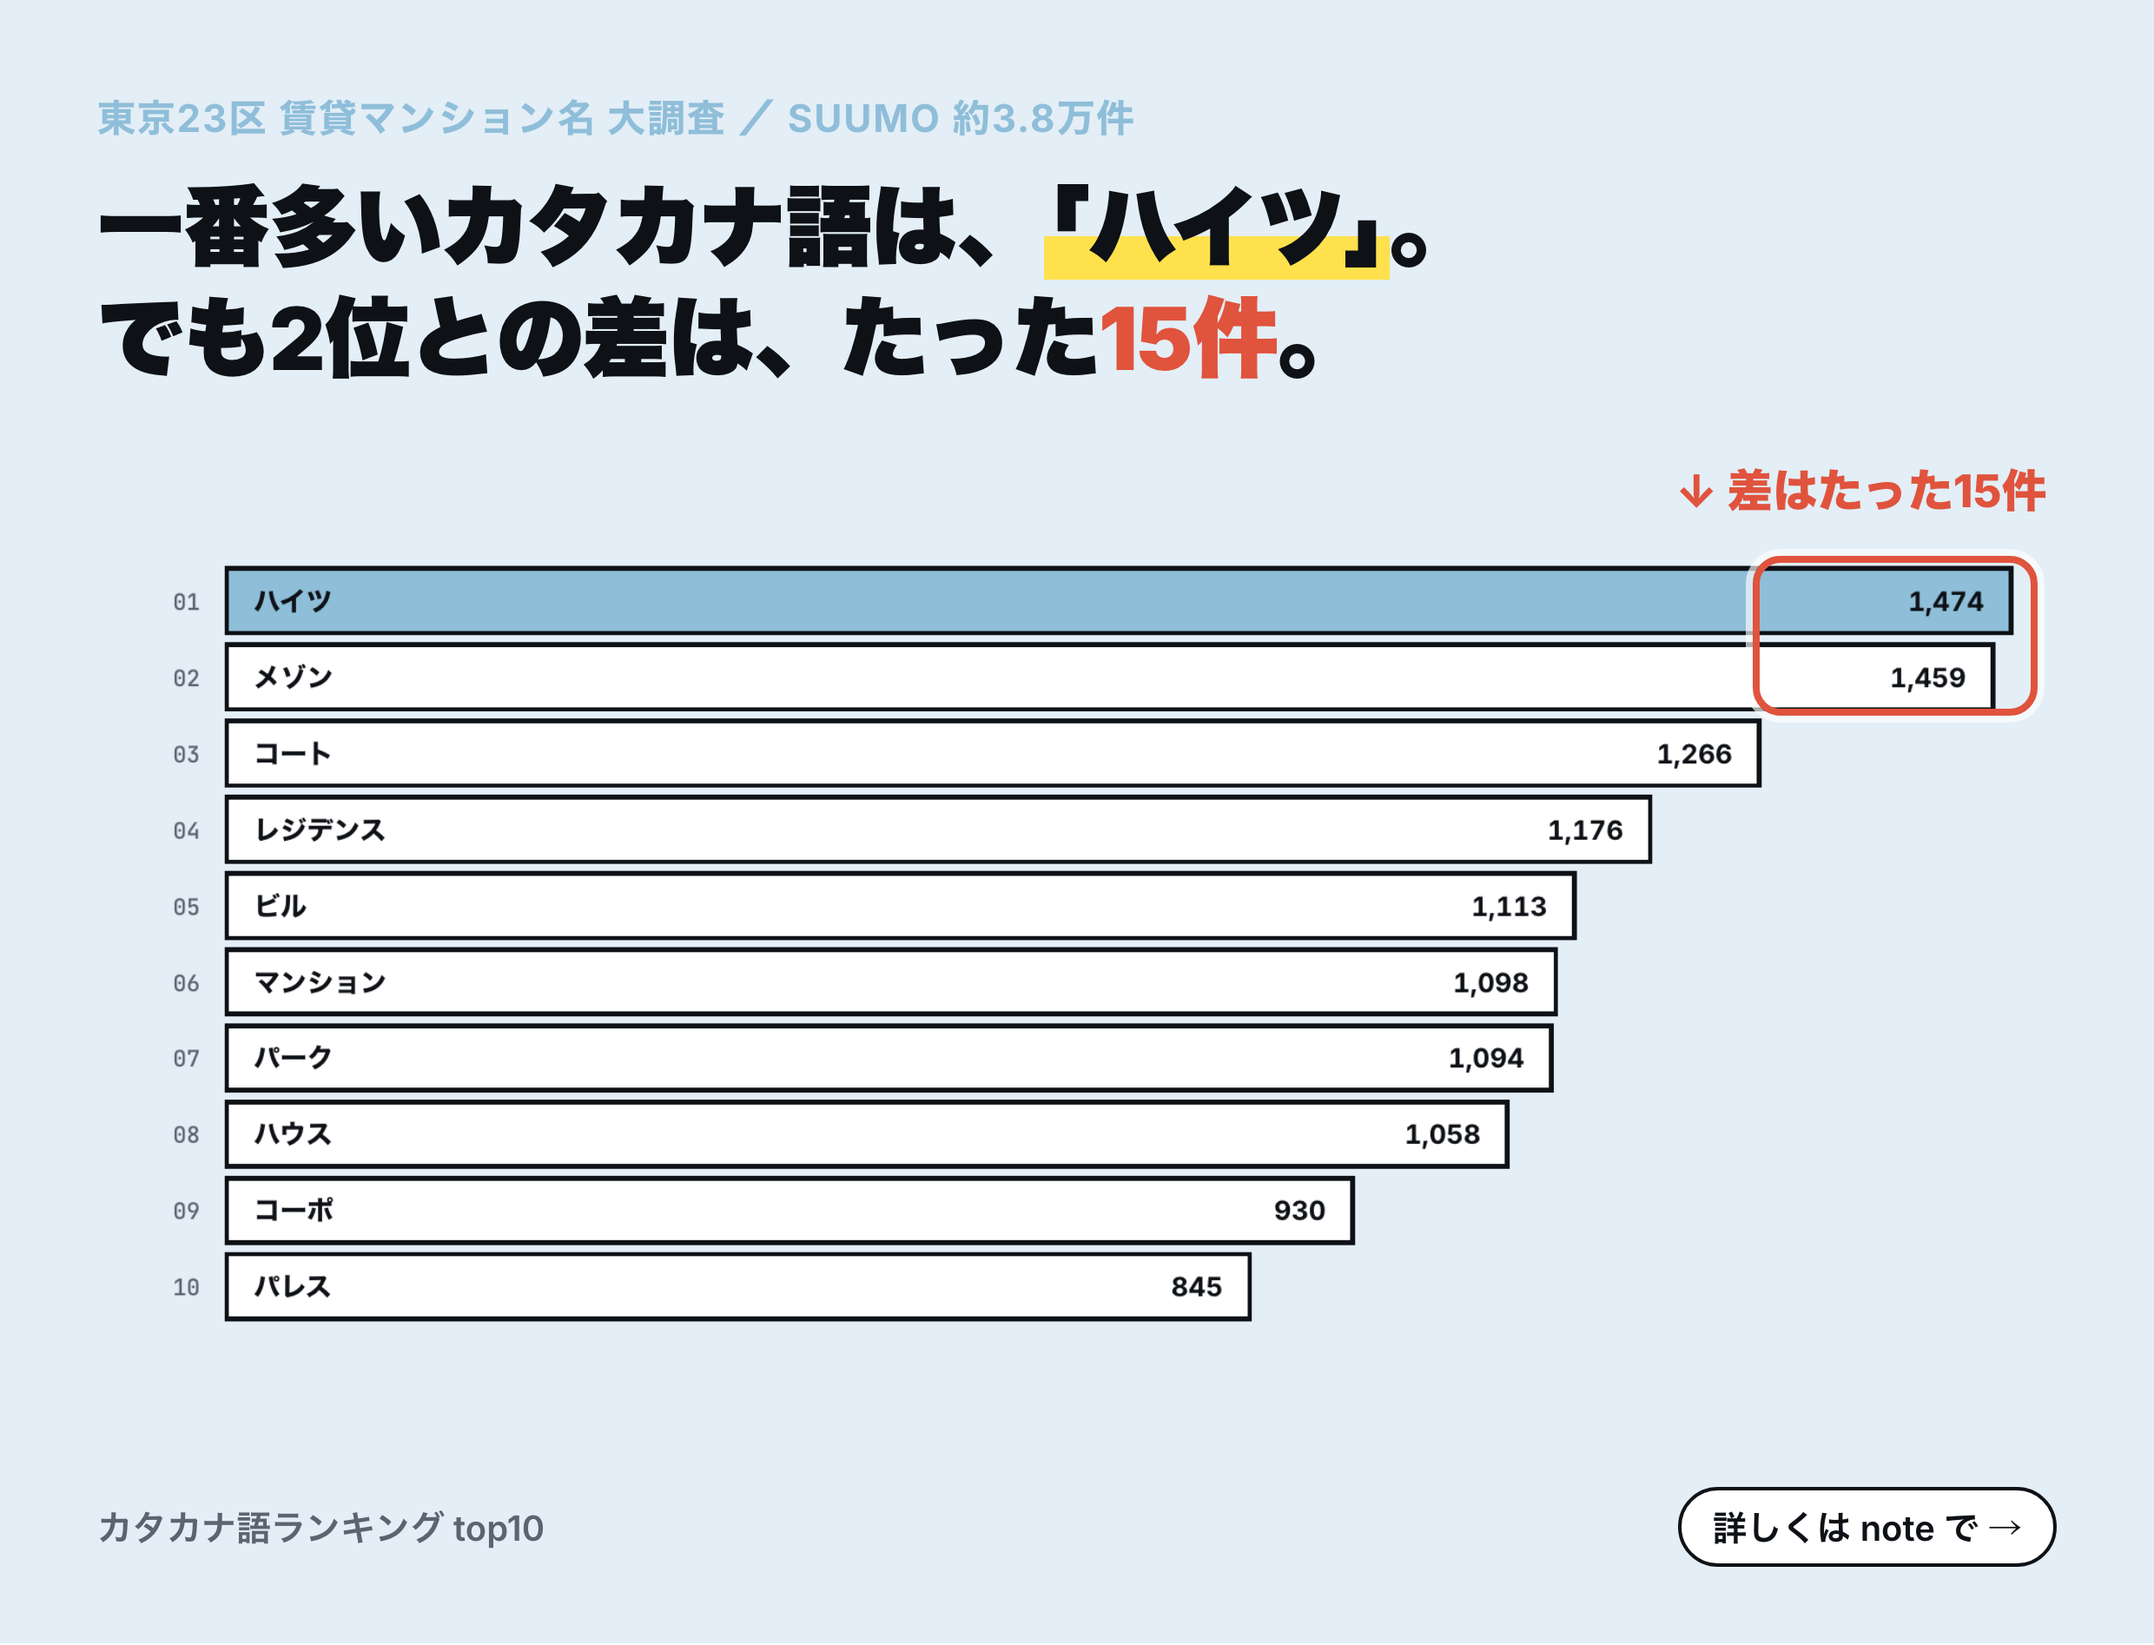
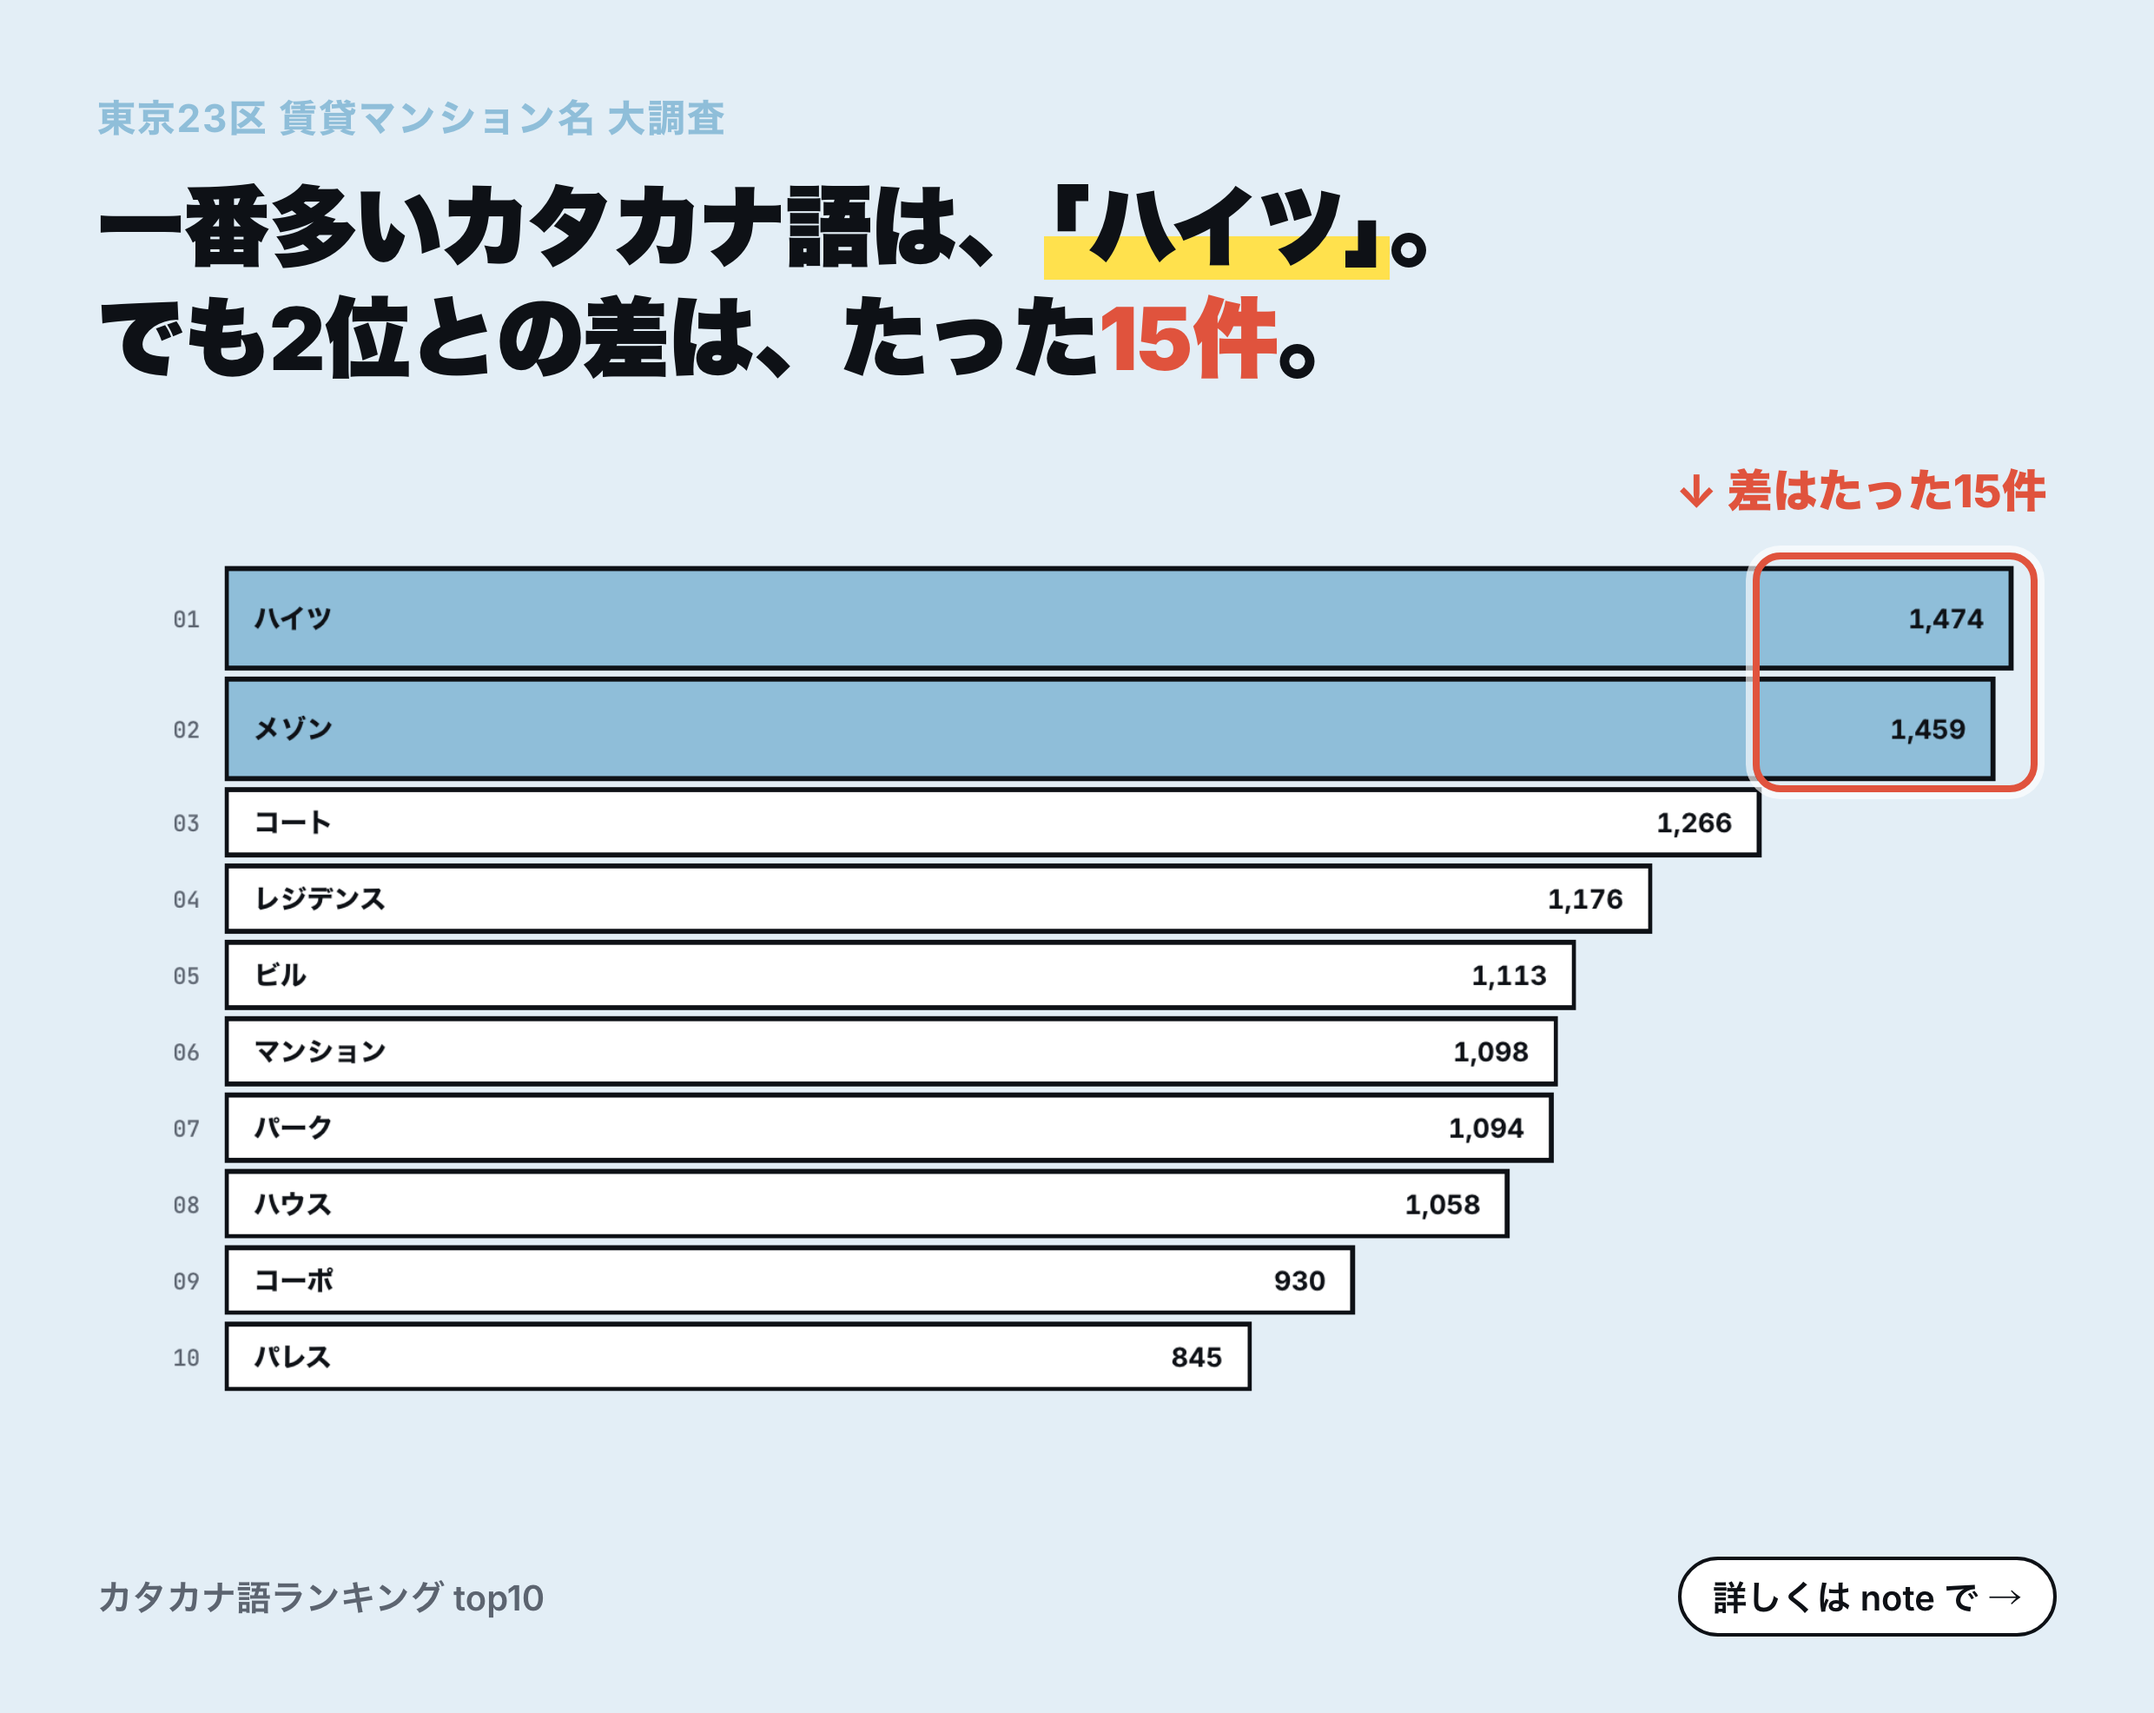
Add X-post token count visualization and update post1 ranking image
Create exp/014_visualize_token_counts_x.py variant for X posts that highlights
the near-tie between top 2 items. Update exp/012_create_x_post_images.py to use
the new visualization, remove redundant data source attribution, and fine-tune
the ring overlay positioning on post1_ranking.png.

diff --git a/exp/014_visualize_token_counts_x.py b/exp/014_visualize_token_counts_x.py
@@ -1,0 +1,232 @@
+"""X-post variant of the token-count bar chart (see 005 for the note version).
+
+Same chart as 005, but the top 2 rows get taller, accent-colored bars so the
+near-tie between rank 1 and 2 stands out in the X post. The note keeps the plain
+005 chart; this variant is embedded only by 012 (post1_ranking).
+Design reference: https://pudding.cool/2019/03/pop-music/
+"""
+
+from __future__ import annotations
+
+import json
+import subprocess
+from pathlib import Path
+
+import click
+import polars as pl
+
+from html_to_png import html_to_png
+
+SCRIPT_PATH = Path(__file__).resolve()
+PROJECT_ROOT = SCRIPT_PATH.parent.parent
+INPUT_CSV = PROJECT_ROOT / "data" / "003_analyze_property_name_words" / "token_counts.csv"
+OUTPUT_DIR = PROJECT_ROOT / "data" / SCRIPT_PATH.stem
+OUTPUT_HTML = OUTPUT_DIR / "index.html"
+OUTPUT_PNG = OUTPUT_DIR / "index.png"
+
+DEFAULT_TOP_N = 10
+
+HTML_TEMPLATE = """<!doctype html>
+<html lang="en">
+  <head>
+    <meta charset="UTF-8" />
+    <title>Top __TOP_N__ property-name tokens</title>
+    <link rel="preconnect" href="https://fonts.googleapis.com" />
+    <link rel="preconnect" href="https://fonts.gstatic.com" crossorigin />
+    <link
+      href="https://fonts.googleapis.com/css2?family=Inter:wght@400;500;600;700;800;900&family=JetBrains+Mono:wght@400;500&display=swap"
+      rel="stylesheet"
+    />
+    <style>
+      :root {
+        --bg: #e3eef6;
+        --surface: #ffffff;
+        --ink: #0e1116;
+        --muted: #5c6470;
+        --accent: #8fbed9;
+        --border: #0e1116;
+      }
+
+      * {
+        box-sizing: border-box;
+      }
+
+      html,
+      body {
+        margin: 0;
+        padding: 0;
+        background: var(--bg);
+        color: var(--ink);
+        font-family:
+          "Inter",
+          "Hiragino Sans",
+          "Yu Gothic UI",
+          system-ui,
+          -apple-system,
+          sans-serif;
+        -webkit-font-smoothing: antialiased;
+        text-rendering: optimizeLegibility;
+      }
+
+      .page {
+        max-width: 1040px;
+        margin: 0 auto;
+        padding: 64px 32px 80px;
+      }
+
+      #chart {
+        width: 100%;
+        height: auto;
+        display: block;
+        overflow: visible;
+      }
+
+      .rank {
+        font-family:
+          "JetBrains Mono", ui-monospace, SFMono-Regular, Menlo, monospace;
+        font-size: 12px;
+        font-weight: 500;
+        fill: var(--muted);
+      }
+
+      .bar {
+        fill: var(--surface);
+        stroke: var(--border);
+        stroke-width: 2.5;
+        shape-rendering: crispEdges;
+      }
+      .bar.top {
+        fill: var(--accent);
+      }
+
+      .token {
+        font-size: 14px;
+        font-weight: 700;
+        fill: var(--ink);
+      }
+
+      .count {
+        font-size: 14px;
+        font-weight: 700;
+        fill: var(--ink);
+        font-variant-numeric: tabular-nums;
+        font-feature-settings: "tnum";
+      }
+    </style>
+  </head>
+  <body>
+    <div class="page">
+      <svg id="chart" preserveAspectRatio="xMinYMin meet"></svg>
+    </div>
+
+    <script src="https://d3js.org/d3.v7.min.js"></script>
+    <script>
+      const data = __DATA_JSON__;
+
+      const W = 980;
+      const ROW_H = 34;
+      const TOP_ROW_H = 52; // taller bars for the top 2 so they stand out
+      const TOP_N = 2;
+      const ROW_GAP = 6;
+      const RANK_COL = 44;
+      const PAD = 14;
+      const MARGIN_X = 24;
+      const MARGIN_Y = 64;
+      const BAR_AREA = W - RANK_COL;
+      const totalW = W + MARGIN_X * 2;
+
+      const rowH = (i) => (i < TOP_N ? TOP_ROW_H : ROW_H);
+      const rowY = [];
+      data.reduce((acc, _, i) => {
+        rowY[i] = acc;
+        return acc + rowH(i) + ROW_GAP;
+      }, MARGIN_Y);
+      const totalH = rowY[data.length - 1] + rowH(data.length - 1) + MARGIN_Y;
+      const fmt = d3.format(",");
+      const xScale = d3
+        .scaleLinear()
+        .domain([0, d3.max(data, (d) => d.count)])
+        .range([0, BAR_AREA]);
+
+      const svg = d3
+        .select("#chart")
+        .attr("viewBox", `0 0 ${totalW} ${totalH}`)
+        .attr("width", totalW)
+        .attr("height", totalH);
+
+      const rows = svg
+        .selectAll("g.row")
+        .data(data)
+        .join("g")
+        .attr("class", "row")
+        .attr("transform", (_, i) => `translate(${MARGIN_X}, ${rowY[i]})`);
+
+      rows
+        .append("text")
+        .attr("class", "rank")
+        .attr("x", RANK_COL - 14)
+        .attr("y", (_, i) => rowH(i) / 2)
+        .attr("dominant-baseline", "central")
+        .attr("text-anchor", "end")
+        .text((_, i) => String(i + 1).padStart(2, "0"));
+
+      const barG = rows
+        .append("g")
+        .attr("transform", `translate(${RANK_COL}, 0)`);
+
+      barG
+        .append("rect")
+        .attr("class", (_, i) => (i < TOP_N ? "bar top" : "bar"))
+        .attr("x", 0)
+        .attr("y", 0)
+        .attr("height", (_, i) => rowH(i))
+        .attr("width", (d) => xScale(d.count));
+
+      barG
+        .append("text")
+        .attr("class", "token")
+        .attr("x", PAD)
+        .attr("y", (_, i) => rowH(i) / 2)
+        .attr("dominant-baseline", "central")
+        .text((d) => d.token);
+
+      barG
+        .append("text")
+        .attr("class", "count")
+        .attr("x", (d) => xScale(d.count) - PAD)
+        .attr("y", (_, i) => rowH(i) / 2)
+        .attr("dominant-baseline", "central")
+        .attr("text-anchor", "end")
+        .text((d) => fmt(d.count));
+    </script>
+  </body>
+</html>
+"""
+
+
+@click.command()
+@click.option(
+    "-n",
+    "--top-n",
+    type=click.IntRange(min=1),
+    default=DEFAULT_TOP_N,
+    show_default=True,
+    help="Number of top tokens to render.",
+)
+def main(top_n: int) -> None:
+    df = pl.read_csv(INPUT_CSV).sort("count", descending=True).head(top_n)
+    data_json = json.dumps(df.to_dicts(), ensure_ascii=False)
+    html = HTML_TEMPLATE.replace("__DATA_JSON__", data_json).replace("__TOP_N__", str(len(df)))
+
+    OUTPUT_DIR.mkdir(parents=True, exist_ok=True)
+    OUTPUT_HTML.write_text(html, encoding="utf-8")
+    print(f"Saved: {OUTPUT_HTML} (top {len(df)})")
+
+    html_to_png(OUTPUT_HTML, OUTPUT_PNG, selector="#chart")
+    print(f"Saved: {OUTPUT_PNG}")
+
+    subprocess.run(["open", "-a", "Google Chrome", str(OUTPUT_HTML)], check=True)
+
+
+if __name__ == "__main__":
+    main()

diff --git a/exp/012_create_x_post_images.py b/exp/012_create_x_post_images.py
@@ -19,7 +19,7 @@ PROJECT_ROOT = SCRIPT_PATH.parent.parent
 OUTPUT_DIR = PROJECT_ROOT / "data" / SCRIPT_PATH.stem  # intermediate HTML
 POST_DIR = PROJECT_ROOT / "articles" / "x" / "001_property_name_words"  # final PNGs
 
-RANKING_PNG = PROJECT_ROOT / "data" / "005_visualize_token_counts" / "index.png"
+RANKING_PNG = PROJECT_ROOT / "data" / "014_visualize_token_counts_x" / "index.png"
 ELEVATION_PNG = PROJECT_ROOT / "data" / "010_visualize_name_elevation" / "index.png"
 TOWER_PNG = PROJECT_ROOT / "data" / "011_visualize_token_by_area" / "tower.png"
 
@@ -178,12 +178,12 @@ def build_page(inner: str, width: int) -> str:
 def post1_ranking() -> str:
     img = data_uri(RANKING_PNG)
     return f"""
-      <p class="eyebrow">東京23区 賃貸マンション名 大調査 ／ SUUMO 約3.8万件</p>
+      <p class="eyebrow">東京23区 賃貸マンション名 大調査</p>
       <h1 class="headline">一番多いカタカナ語は、<span class="mark">「ハイツ」</span>。<br>
         でも2位との差は、たった<span class="hot">15件</span>。</h1>
       <div class="chartwrap">
         <img src="{img}" alt="カタカナ語ランキングtop10" />
-        <div class="ring" style="top:11%; left:84.5%; width:14.5%; height:16%;"></div>
+        <div class="ring" style="top:10%; left:84.5%; width:14.5%; height:22.5%;"></div>
         <div class="anno-label" style="top:1%; right:0.5%;">↓ 差はたった15件</div>
       </div>
       <div class="footer"><span>カタカナ語ランキング top10</span><span class="note">詳しくは note で →</span></div>
